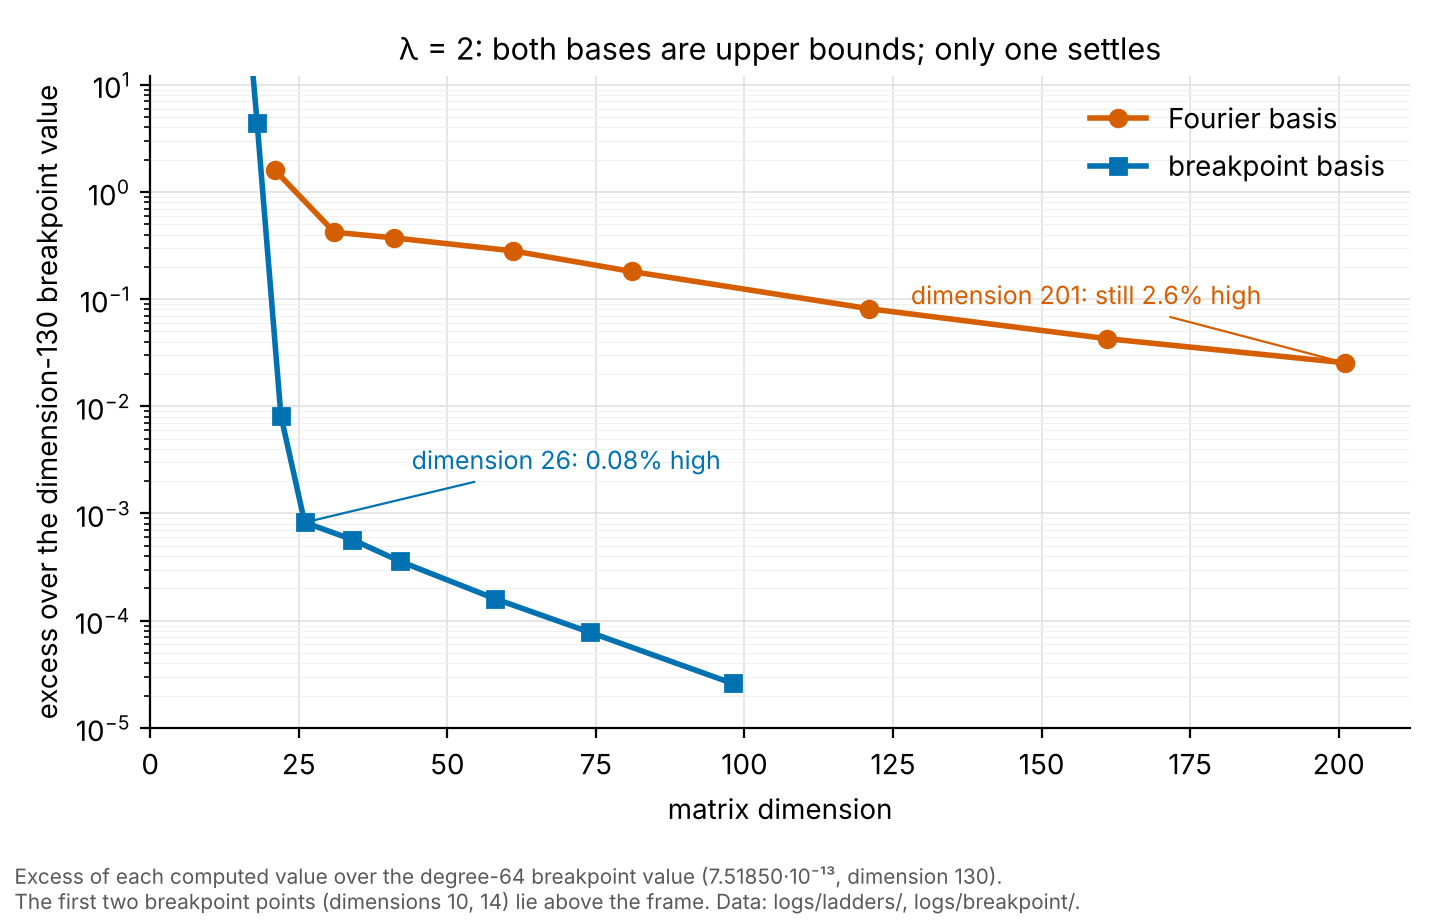
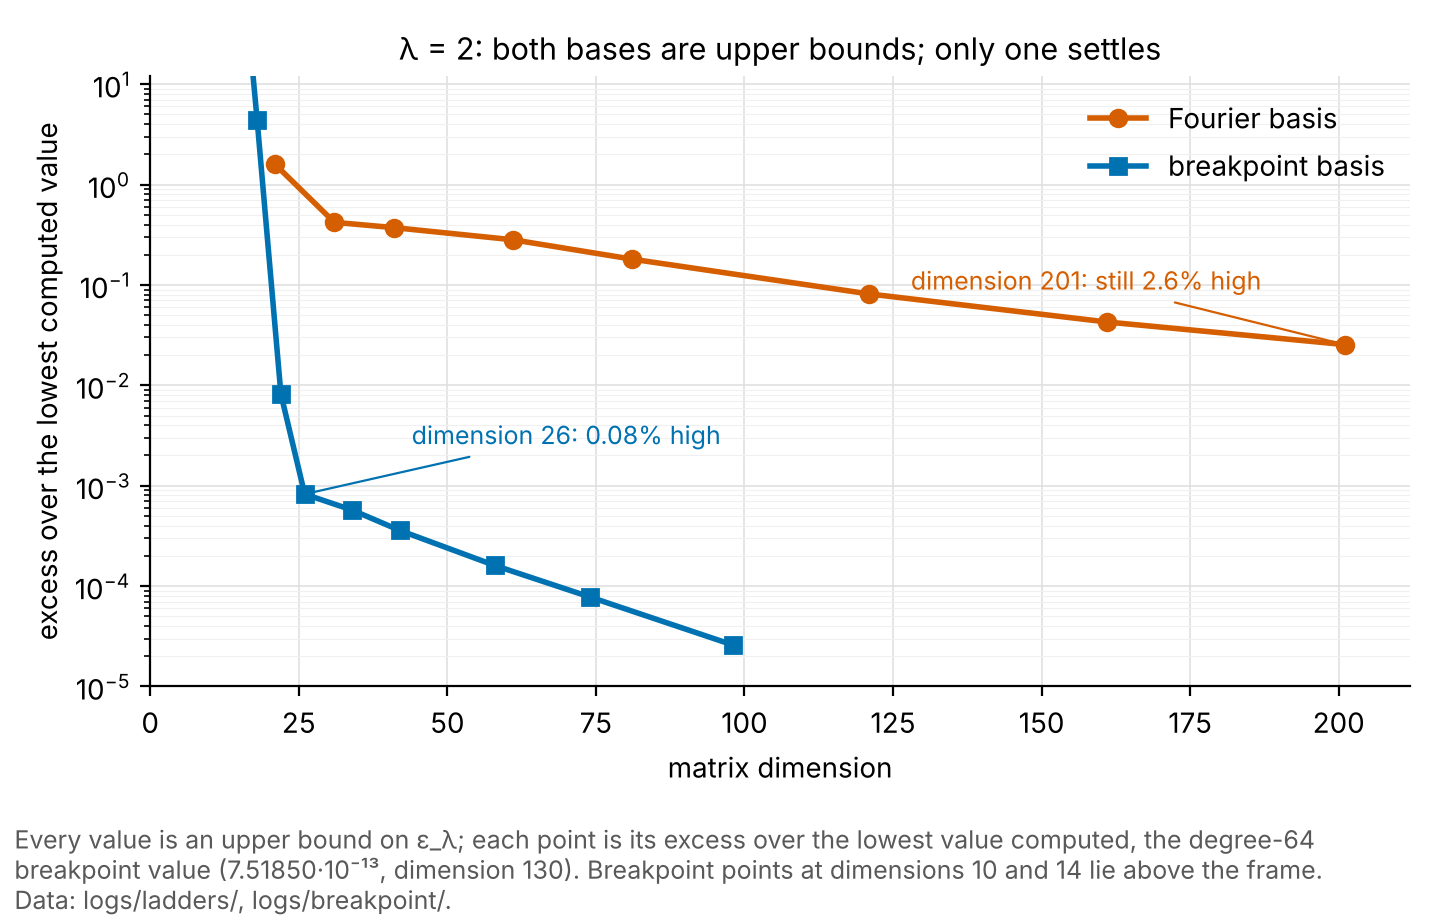
Add files via upload

Changed region(s): [[0.0, 0.0913, 0.9688, 1.0]]

diff --git a/weil_form_breakpoints.md b/weil_form_breakpoints.md
@@ -1,6 +1,6 @@
 # An Improved Computation of the Truncated Weil-form Minimizer: Breakpoints at the Prime-power Positions
 
-*Author: Jeff Echt. This analysis was produced with the assistance of Anthropic's Claude (Fable 5.1). Every computation was run by the author, who is responsible for all content. October 2026.*
+*Author: Jeff Echt. This analysis was produced with the assistance of Anthropic's Claude (Fable 5.1). Every computation was run by the author, who is responsible for all content. November 2026.*
 
 **Background.** By Weil's criterion [1], in the form given by Bombieri [13, Theorem 2] and used in [2, 11], the Riemann Hypothesis is equivalent to the positivity of a quadratic form Q_W(f) = W(f ∗ f̃), where W is the explicit-formula functional: pole terms, minus a sum over prime powers weighted by Λ(p^m) p^{−m/2}, minus an archimedean term. Yoshida [14] showed that it is enough to test functions supported on a fixed interval [λ⁻¹, λ] for every λ. Connes, Consani and Moscovici [2] restrict Q_W to functions supported on [λ⁻¹, λ] and compute its lowest eigenvalue ε_λ and minimizer ξ_λ in a basis of 2N+1 complex exponentials, the Fourier basis. The restricted form is positive, ε_λ is tiny, and an operator built from ξ_λ has the zeta zeros as eigenvalues to tens of digits. Groskin [3, 4], Zhu [5], Connes [6] and others [7, 8] have since reimplemented and extended the computation, all in the same Fourier basis. They have used its values of ε_λ to test the large-λ decay heuristic of Connes [6], and its convergence rate in N as a measure of the regularity of ξ_λ.
 
@@ -48,7 +48,7 @@ Nothing here bears on λ → ∞. All computations have λ ≤ 4.2 and prime pow
 
 ## Code, logs and reproduction
 
-Everything is in the repository at https://github.com/energycode81/weil-form-breakpoints. The scripts are Python 3 with mpmath: `weil_step1.py` (Fourier basis; spectrum of D_log; prolate comparison; `--zeros` for the explicit-formula sum; `--endpoint`; `--max-prime` and `--no-primes` for ablation), `weil_legendre.py` (Legendre basis), `weil_breakpoints.py` (breakpoint basis; `--extra-breaks` and `--no-breaks` for the controls), `bp_jumps.py`, `bp_zerosum.py`, `bp_piece_decay.py` and `leg_window.py` (diagnostics on dumped eigenvectors), and `check1.py` (one matrix entry recomputed from the definition). Every number in this note has a log in `logs/`, grouped by what produced it (`fourier/`, `fourier/ablation/`, `breakpoint/`, `breakpoint/controls/`, `legendre/`, `diagnostics/`, `validation/`, `ladders/`). `logs/INDEX.md` lists each log with its command and the numbers it backs. `tta_table.md` has the time-to-accuracy ladders of both bases. Precision is set with `--dps` (decimal digits). `--ygl` is the number of quadrature nodes per integration segment in the breakpoint basis; the default is max(24, 2d + 8). Every run in this note can be made on ordinary local hardware. The commands behind the headline numbers:
+Everything is in the repository at [repository URL]. The scripts are Python 3 with mpmath: `weil_step1.py` (Fourier basis; spectrum of D_log; prolate comparison; `--zeros` for the explicit-formula sum; `--endpoint`; `--max-prime` and `--no-primes` for ablation), `weil_legendre.py` (Legendre basis), `weil_breakpoints.py` (breakpoint basis; `--extra-breaks` and `--no-breaks` for the controls), `bp_jumps.py`, `bp_zerosum.py`, `bp_piece_decay.py` and `leg_window.py` (diagnostics on dumped eigenvectors), and `check1.py` (one matrix entry recomputed from the definition). Every number in this note has a log in `logs/`, grouped by what produced it (`fourier/`, `fourier/ablation/`, `breakpoint/`, `breakpoint/controls/`, `legendre/`, `diagnostics/`, `validation/`, `ladders/`). `logs/INDEX.md` lists each log with its command and the numbers it backs. `tta_table.md` has the time-to-accuracy ladders of both bases. Precision is set with `--dps` (decimal digits). `--ygl` is the number of quadrature nodes per integration segment in the breakpoint basis; the default is max(24, 2d + 8). Every run in this note can be made on ordinary local hardware. The commands behind the headline numbers:
 
 ```
 # Fourier values at N = 100 (the 2.6 / 14 / 27 % figures)

diff --git a/README.md b/README.md
@@ -2,7 +2,7 @@
 
 Code, logs and eigenvectors for the note
 
-> J. Echt, *An Improved Computation of the Truncated Weil-form Minimizer: Breakpoints at the Prime-power Positions*, October 2026 (`weil_form_breakpoints.md` in this repository).
+> J. Echt, *An Improved Computation of the Truncated Weil-form Minimizer: Breakpoints at the Prime-power Positions*, November 2026 (`weil_form_breakpoints.md` in this repository).
 
 The note (`weil_form_breakpoints.md`) shows that the Fourier basis used in every published computation of the Connes–Consani–Moscovici truncated Weil form (*Zeta Spectral Triples*, arXiv:2511.22755) does not converge to its lowest eigenvalue ε_λ at any practical size (at dimension 201 it is at least 2.6%, 14% and 27% above the minimum at λ = 2, 2.5 and 3), explains why (the minimizer has corners at y = log p^m and L − log p^m, one pair for each prime power p^m ≤ λ²), and gives a piecewise-polynomial basis with cuts at these corners' positions that, at λ = 2, comes within 0.1% of its dimension-130 value already at dimension 26. Everything in the note can be reproduced from this repository on ordinary hardware.
 
